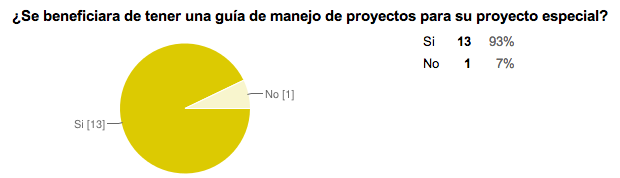
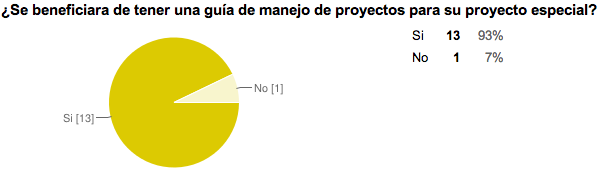
lalala

diff --git a/index.html b/index.html
@@ -49,9 +49,12 @@
 
 <p>Well, it's a very long questionnaire. But here are some bits and pieces of what we thought are the most important trends we uncovered. Sorry for the spanish :)</p>
 
-<div style="float: left;"> <img align="center" src="fundraising_data.png" width="300" height="200"/> </div> 
-<div style="float: left;"> <img align="center" src="biggest_earner.png" width="300" height="200"/> </div>
-<div style="float: left;"> <img align="center" src="guide_yesno.png" width="300" height="200"/> </div>
+<div style="float: left;"> <img align="center" src="fundraising.png" width="300" height="200"/> </div> 
+<div style="float: left;"> <img align="center" src="budget_range.png" width="300" height="200"/> </div>
+<div style="float: left;"> <img align="center" src="prep_time.png" width="300" height="200"/> </div>
+<div style="float: left;"> <img align="center" src="registration.png" width="300" height="200"/> </div>
+<div style="float: center;"> <img align="center" src="problems.png" width="400" height="300"/> </div>
+<div style="float: center;"> <img align="center" src="guide_yesno.png" width="400" height="300"/> </div>
 
 
 <h3>
